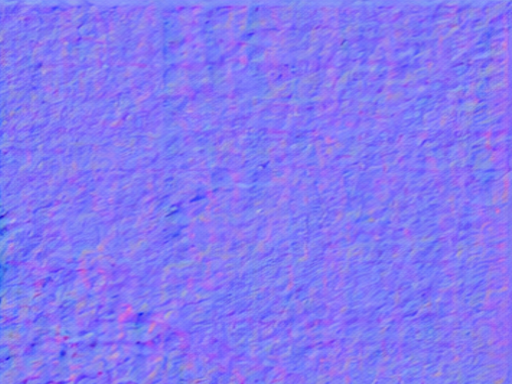
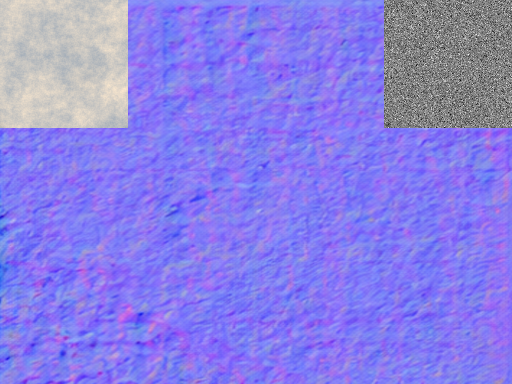
.

Changed region(s): [[0.75, 0.0, 1.0, 0.3438], [0.0, 0.0, 0.25, 0.3438]]

diff --git a/apps/client/src/map/hexTerrainMesh.ts b/apps/client/src/map/hexTerrainMesh.ts
@@ -62,25 +62,62 @@ export function resolveHexNeighborMaterialIds(tile: HexTile, map: HexMapArtifact
 
 export function resolveHexCoastMaskParams(map: HexMapArtifact, materialPack: HexMaterialPackManifest = generatedHexMaterialPack): Map<HexId, [number, number, number, number]> {
   const coastParamsByHexId = new Map<HexId, [number, number, number, number]>();
-  const rawCoastParamsByHexId = new Map<HexId, [number, number, TerrainMaterialId]>();
+  const rawCoastParamsByHexId = resolveRawCoastParams(map);
+  for (const [hexId, rawParams] of rawCoastParamsByHexId) {
+    const dominant = resolveDominantCoastWaterMaterial(rawParams);
+    const waterMaterialIndex = resolveTerrainMaterialAtlasIndex(dominant.waterMaterial, materialPack);
+    coastParamsByHexId.set(hexId, [resolveHexCoastMaskAtlasIndex(hexId, rawParams.rawMask, materialPack), dominant.strength, waterMaterialIndex, 1]);
+  }
+  return coastParamsByHexId;
+}
+
+function resolveHexCoastMaskParamsByDirection(map: HexMapArtifact, materialPack: HexMaterialPackManifest = generatedHexMaterialPack): Map<HexId, [number, number, number, number][]> {
+  const coastParamsByHexId = new Map<HexId, [number, number, number, number][]>();
+  const rawCoastParamsByHexId = resolveRawCoastParams(map);
+  for (const [hexId, rawParams] of rawCoastParamsByHexId) {
+    const dominant = resolveDominantCoastWaterMaterial(rawParams);
+    const atlasIndex = resolveHexCoastMaskAtlasIndex(hexId, rawParams.rawMask, materialPack);
+    coastParamsByHexId.set(
+      hexId,
+      Array.from({ length: 6 }, (_, direction): [number, number, number, number] => {
+        const edge = rawParams.edges[direction];
+        const waterMaterial = edge?.waterMaterial ?? dominant.waterMaterial;
+        const strength = edge?.strength ?? dominant.strength;
+        return [atlasIndex, strength, resolveTerrainMaterialAtlasIndex(waterMaterial, materialPack), 1];
+      }),
+    );
+  }
+  return coastParamsByHexId;
+}
+
+type RawCoastParams = {
+  rawMask: number;
+  edges: Array<{ strength: number; waterMaterial: TerrainMaterialId } | null>;
+};
+
+function resolveRawCoastParams(map: HexMapArtifact): Map<HexId, RawCoastParams> {
+  const rawCoastParamsByHexId = new Map<HexId, RawCoastParams>();
   const tileById = new Map(map.tiles.map((tile) => [tile.id, tile]));
   for (const coast of map.coastOverlays) {
     const tile = tileById.get(coast.hexId);
     const waterMaterial = resolveCoastWaterMaterial(tile, coast.direction, map, tileById);
     const strength = resolveCoastRenderStrength(coast.strength, waterMaterial);
-    const current = rawCoastParamsByHexId.get(coast.hexId) ?? [0, 0, waterMaterial];
-    current[0] = current[0] | (1 << coast.direction);
-    if (strength >= current[1]) {
-      current[1] = strength;
-      current[2] = waterMaterial;
-    }
+    const current = rawCoastParamsByHexId.get(coast.hexId) ?? { rawMask: 0, edges: Array.from({ length: 6 }, () => null) };
+    current.rawMask = current.rawMask | (1 << coast.direction);
+    current.edges[coast.direction] = { strength, waterMaterial };
     rawCoastParamsByHexId.set(coast.hexId, current);
   }
-  for (const [hexId, [rawMask, strength, waterMaterial]] of rawCoastParamsByHexId) {
-    const waterMaterialIndex = resolveTerrainMaterialAtlasIndex(waterMaterial, materialPack);
-    coastParamsByHexId.set(hexId, [resolveHexCoastMaskAtlasIndex(hexId, rawMask, materialPack), strength, waterMaterialIndex, 1]);
-  }
-  return coastParamsByHexId;
+  return rawCoastParamsByHexId;
+}
+
+function resolveDominantCoastWaterMaterial(rawParams: RawCoastParams): { strength: number; waterMaterial: TerrainMaterialId } {
+  return rawParams.edges.reduce(
+    (dominant, edge) => {
+      if (!edge || edge.strength < dominant.strength) return dominant;
+      return edge;
+    },
+    { strength: 0, waterMaterial: "coastal_water" as TerrainMaterialId },
+  );
 }
 
 function resolveCoastRenderStrength(strength: number, waterMaterial: TerrainMaterialId): number {
@@ -117,7 +154,7 @@ export function resolveHexBiomeTransitionParams(
 ): [number, number, number, number] {
   const baseIsWater = isWaterMaterial(baseMaterial);
   const edgeIsWater = isWaterMaterial(edgeMaterial);
-  if (!neighborHexId || hexId.localeCompare(neighborHexId) > 0 || baseMaterial === edgeMaterial || baseIsWater !== edgeIsWater) {
+  if (!neighborHexId || baseMaterial === edgeMaterial || (baseIsWater === edgeIsWater && hexId.localeCompare(neighborHexId) > 0) || (baseIsWater && !edgeIsWater)) {
     return [0, 0, 0, 0];
   }
   return [resolveHexBiomeTransitionAtlasIndex(hexId, direction, baseMaterial, edgeMaterial, materialPack), 1, 1, 0];
@@ -170,7 +207,7 @@ function buildChunkRenderData(
   let bottom = Number.NEGATIVE_INFINITY;
 
   const sortedTiles = [...tiles].sort((a, b) => (a.r === b.r ? a.q - b.q : a.r - b.r));
-  const coastParamsByHexId = resolveHexCoastMaskParams(map, materialPack);
+  const coastParamsByHexId = resolveHexCoastMaskParamsByDirection(map, materialPack);
   const defaultCoastParams: [number, number, number, number] = [0, 0, resolveTerrainMaterialAtlasIndex("coastal_water", materialPack), 0];
   for (const tile of sortedTiles) {
     const center = axialToPixel(tile, map.settings.hexSize);
@@ -178,7 +215,7 @@ function buildChunkRenderData(
     const baseColor = resolveTerrainMaterialColor(baseMaterial, materialPack);
     const baseMaterialIndex = resolveTerrainMaterialAtlasIndex(baseMaterial, materialPack);
     const neighborMaterials = resolveHexNeighborMaterialIds(tile, map, tileById);
-    const tileCoastParams = coastParamsByHexId.get(tile.id) ?? defaultCoastParams;
+    const tileCoastParams = coastParamsByHexId.get(tile.id);
     qMin = Math.min(qMin, tile.q);
     qMax = Math.max(qMax, tile.q);
     rMin = Math.min(rMin, tile.r);
@@ -193,8 +230,9 @@ function buildChunkRenderData(
       const edgeColor = resolveTerrainMaterialColor(edgeMaterial, materialPack);
       const edgeMaterialIndex = resolveTerrainMaterialAtlasIndex(edgeMaterial, materialPack);
       const transitionParam = resolveHexBiomeTransitionParams(tile.id, neighborTile?.id ?? null, direction as HexDirection, baseMaterial, edgeMaterial, materialPack);
+      const coastParam = tileCoastParams?.[direction] ?? defaultCoastParams;
       const vertexStart = positions.length / 2;
-      pushVertex(positions, locals, baseColors, edgeColors, materialIndices, materialWeights, coastParams, transitionParams, center.x, center.y, 0, 0, baseColor, edgeColor, baseMaterialIndex, edgeMaterialIndex, tileCoastParams, transitionParam, tile, 0);
+      pushVertex(positions, locals, baseColors, edgeColors, materialIndices, materialWeights, coastParams, transitionParams, center.x, center.y, 0, 0, baseColor, edgeColor, baseMaterialIndex, edgeMaterialIndex, coastParam, transitionParam, tile, 0);
       pushVertex(
         positions,
         locals,
@@ -212,7 +250,7 @@ function buildChunkRenderData(
         edgeColor,
         baseMaterialIndex,
         edgeMaterialIndex,
-        tileCoastParams,
+        coastParam,
         transitionParam,
         tile,
         1,
@@ -234,7 +272,7 @@ function buildChunkRenderData(
         edgeColor,
         baseMaterialIndex,
         edgeMaterialIndex,
-        tileCoastParams,
+        coastParam,
         transitionParam,
         tile,
         1,

diff --git a/apps/client/src/map/hexTerrainMesh.test.ts b/apps/client/src/map/hexTerrainMesh.test.ts
@@ -1,5 +1,4 @@
 import { describe, expect, it } from "vitest";
-import { readFileSync } from "node:fs";
 import type { HexDirection, HexId, HexMapArtifact, HexTile } from "@arcanorum/shared";
 import { DEFAULT_HEX_MAP_SETTINGS, generateHexMap } from "./hexMapGenerator";
 import { buildHexTerrainMeshData, resolveHexBiomeTransitionAtlasIndex, resolveHexCoastMaskAtlasIndex, resolveHexCoastMaskParams, resolveHexNeighborMaterialIds } from "./hexTerrainMesh";
@@ -183,14 +182,6 @@ describe("hex terrain mesh renderer data", () => {
     expect(readTransitionParams(meshData, coastLand.id, 0)[1]).toBe(1);
   });
 
-  it("keeps coastline suppression pixel-local in the terrain shader", () => {
-    const shaderSource = readFileSync(new URL("./hexTerrainMeshRenderer.ts", import.meta.url), "utf8");
-
-    expect(shaderSource).not.toContain("transitionAmount *= 1.0 - coastEnabled");
-    expect(shaderSource).toContain("transitionAmount *= 1.0 - smoothstep(0.18, 0.82, coastWaterAmount) * coastEnabled");
-    expect(shaderSource).toContain("color = mix(color, coastWaterColor, coastWaterAmount * coastEnabled)");
-  });
-
   it("emits biome transition params for different land material edges", () => {
     const edge = findMaterialEdge((base, neighbor) => base !== neighbor && !isWaterMaterial(base) && !isWaterMaterial(neighbor), true);
     const meshData = buildHexTerrainMeshData(smallMap);
@@ -205,13 +196,73 @@ describe("hex terrain mesh renderer data", () => {
     expect(params[0]).toBeLessThan((edge.direction + 1) * variants);
   });
 
-  it("disables biome transition params for same material and land-water edges", () => {
+  it("disables biome transition params for same material edges", () => {
     const sameEdge = findMaterialEdge((base, neighbor) => base === neighbor && !isWaterMaterial(base));
-    const landWaterEdge = findMaterialEdge((base, neighbor) => isWaterMaterial(base) !== isWaterMaterial(neighbor));
     const meshData = buildHexTerrainMeshData(smallMap);
 
     expect(readTransitionParams(meshData, sameEdge.tile.id, sameEdge.direction)).toEqual([0, 0, 0, 0]);
-    expect(readTransitionParams(meshData, landWaterEdge.tile.id, landWaterEdge.direction)).toEqual([0, 0, 0, 0]);
+  });
+
+  it("emits land-water biome transition params on the land side only", () => {
+    const land = makeTestTile(1, 1, { terrain: "grassland", biome: "temperate", waterKind: null });
+    const lake = makeTestTile(2, 1, { terrain: "lake", biome: "freshwater", waterKind: "lake" });
+    const map: HexMapArtifact = {
+      ...smallMap,
+      settings: { ...smallMap.settings, width: 4, height: 4, wrapX: false },
+      tiles: [land, lake],
+      coastOverlays: [{ hexId: land.id, direction: 0, strength: 0.92 }],
+      riverEdges: [],
+    };
+    const meshData = buildHexTerrainMeshData(map);
+
+    expect(readTransitionParams(meshData, land.id, 0)[1]).toBe(1);
+    expect(readTransitionParams(meshData, lake.id, 3)).toEqual([0, 0, 0, 0]);
+  });
+
+  it("emits separate biome transitions from one land hex to lake and sea neighbors", () => {
+    const land = makeTestTile(1, 1, { terrain: "grassland", biome: "temperate", waterKind: null });
+    const lake = makeTestTile(2, 1, { terrain: "lake", biome: "freshwater", waterKind: "lake" });
+    const sea = makeTestTile(1, 0, { terrain: "sea", biome: "coastal_water", waterKind: "sea" });
+    const map: HexMapArtifact = {
+      ...smallMap,
+      settings: { ...smallMap.settings, width: 4, height: 4, wrapX: false },
+      tiles: [land, lake, sea],
+      coastOverlays: [
+        { hexId: land.id, direction: 0, strength: 0.92 },
+        { hexId: land.id, direction: 2, strength: 0.58 },
+      ],
+      riverEdges: [],
+    };
+    const meshData = buildHexTerrainMeshData(map);
+    const chunk = meshData.chunks.find((candidate) => candidate.tileIds.includes(land.id))!;
+    const tileIndex = chunk.tileIds.indexOf(land.id);
+    const lakeMaterialOffset = (tileIndex * 18 + 0 * 3) * 2;
+    const seaMaterialOffset = (tileIndex * 18 + 2 * 3) * 2;
+
+    expect(readTransitionParams(meshData, land.id, 0)[1]).toBe(1);
+    expect(readTransitionParams(meshData, land.id, 2)[1]).toBe(1);
+    expect(chunk.materialIndices[lakeMaterialOffset + 1]).toBe(generatedHexMaterialPack.materials.fresh_water.atlasIndex);
+    expect(chunk.materialIndices[seaMaterialOffset + 1]).toBe(generatedHexMaterialPack.materials.coastal_water.atlasIndex);
+  });
+
+  it("emits separate coastline water materials from one land hex to lake and sea neighbors", () => {
+    const land = makeTestTile(1, 1, { terrain: "grassland", biome: "temperate", waterKind: null });
+    const lake = makeTestTile(2, 1, { terrain: "lake", biome: "freshwater", waterKind: "lake" });
+    const sea = makeTestTile(1, 0, { terrain: "sea", biome: "coastal_water", waterKind: "sea" });
+    const map: HexMapArtifact = {
+      ...smallMap,
+      settings: { ...smallMap.settings, width: 4, height: 4, wrapX: false },
+      tiles: [land, lake, sea],
+      coastOverlays: [
+        { hexId: land.id, direction: 0, strength: 0.92 },
+        { hexId: land.id, direction: 2, strength: 0.58 },
+      ],
+      riverEdges: [],
+    };
+    const meshData = buildHexTerrainMeshData(map);
+
+    expect(readCoastParams(meshData, land.id, 0)[2]).toBe(generatedHexMaterialPack.materials.fresh_water.atlasIndex);
+    expect(readCoastParams(meshData, land.id, 2)[2]).toBe(generatedHexMaterialPack.materials.coastal_water.atlasIndex);
   });
 
   it("emits biome transition params for different water material edges", () => {
@@ -294,4 +345,11 @@ function readTransitionParams(meshData: ReturnType<typeof buildHexTerrainMeshDat
   const tileIndex = chunk.tileIds.indexOf(tileId);
   const offset = (tileIndex * 18 + direction * 3) * 4;
   return Array.from(chunk.transitionParams.slice(offset, offset + 4));
+}
+
+function readCoastParams(meshData: ReturnType<typeof buildHexTerrainMeshData>, tileId: HexId, direction: HexDirection): number[] {
+  const chunk = meshData.chunks.find((candidate) => candidate.tileIds.includes(tileId))!;
+  const tileIndex = chunk.tileIds.indexOf(tileId);
+  const offset = (tileIndex * 18 + direction * 3) * 4;
+  return Array.from(chunk.coastParams.slice(offset, offset + 4));
 }
